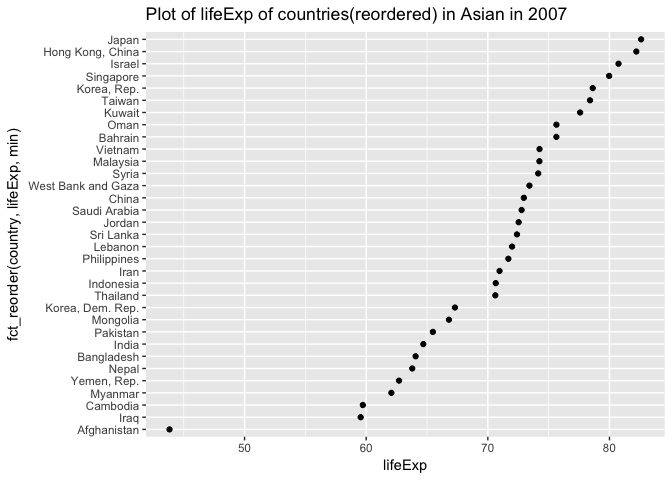
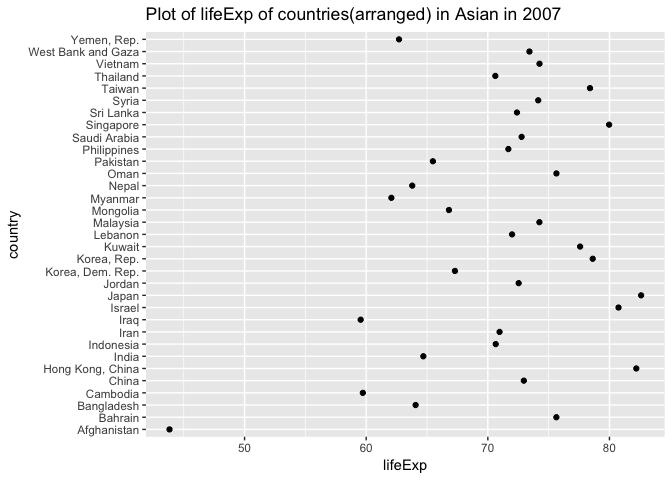
edit

diff --git a/hw05/hw05.md b/hw05/hw05.md
@@ -139,7 +139,7 @@ ggplot(gap_asia_2007, aes(x = lifeExp, y = country)) + geom_point() +
 
 ![](hw05_files/figure-markdown_github-ascii_identifiers/unnamed-chunk-6-1.png)
 
-Arrange the data based on life expectancy.
+**a.** Arrange the data based on life expectancy.
 
 ``` r
 gap_asia_2007%>%
@@ -837,18 +837,18 @@ Asia
 </tr>
 </tbody>
 </table>
-``` r
-# see if the arrange has effect on plots
+See if the arrange has effect on plots.
 
+``` r
 gap_asia_2007%>%
   arrange(lifeExp)%>%
     ggplot(aes(x = lifeExp, y = country)) + geom_point() +
         labs(title= "Plot of lifeExp of countries(arranged) in Asian in 2007") 
 ```
 
-![](hw05_files/figure-markdown_github-ascii_identifiers/unnamed-chunk-7-1.png)
+![](hw05_files/figure-markdown_github-ascii_identifiers/unnamed-chunk-8-1.png)
 
-Reorder the countries based on minimum of life expectancy.
+**b.** Reorder the countries based on minimum of life expectancy.
 
 ``` r
 gap_asia_2007%>%
@@ -1546,16 +1546,16 @@ Asia
 </tr>
 </tbody>
 </table>
-``` r
-# see if the reorder has effect on plots
+See if the reorder has effect on plots.
 
+``` r
 ggplot(gap_asia_2007, aes(x = lifeExp, y = fct_reorder(country, lifeExp, min))) +
   geom_point() + labs(title= "Plot of lifeExp of countries(reordered) in Asian in 2007") 
 ```
 
-![](hw05_files/figure-markdown_github-ascii_identifiers/unnamed-chunk-8-1.png)
+![](hw05_files/figure-markdown_github-ascii_identifiers/unnamed-chunk-10-1.png)
 
-First reorder the countries based on minimum of life expectancy, then arranged the data based on life expectancy.
+**c.** First reorder the countries based on minimum of life expectancy, then arranged the data based on life expectancy.
 
 ``` r
 gap_asia_2007%>%
@@ -2254,8 +2254,9 @@ Asia
 </tr>
 </tbody>
 </table>
+See if the reorder and arrange has effect on plots.
+
 ``` r
-# see if the reorder and arrange has effect on plots
 gap_asia_2007%>%
   mutate(country=fct_reorder(country, lifeExp, min))%>%
   arrange(lifeExp)%>%
@@ -2263,7 +2264,7 @@ gap_asia_2007%>%
         labs(title= "Plot of lifeExp of countries(reordered, arranged) in Asian in 2007") 
 ```
 
-![](hw05_files/figure-markdown_github-ascii_identifiers/unnamed-chunk-9-1.png)
+![](hw05_files/figure-markdown_github-ascii_identifiers/unnamed-chunk-12-1.png)
 
 **Note**:
 
@@ -2330,7 +2331,7 @@ p1<- ggplot(gapminder, aes(x = lifeExp, color = continent)) + geom_density()
 p1
 ```
 
-![](hw05_files/figure-markdown_github-ascii_identifiers/unnamed-chunk-12-1.png)
+![](hw05_files/figure-markdown_github-ascii_identifiers/unnamed-chunk-15-1.png)
 
 ``` r
 # Remake the plot with visualization design and color I learned in the recent class.
@@ -2346,7 +2347,7 @@ p2<- ggplot(gapminder, aes(x = lifeExp, color = continent)) + geom_density() +
 p2
 ```
 
-![](hw05_files/figure-markdown_github-ascii_identifiers/unnamed-chunk-12-2.png) I facetted the density plots wrt continents, I changed the color of the plots by changing the color scheme to "Dark2", I also added a title to my plot, and I changed the theme of the plot.
+![](hw05_files/figure-markdown_github-ascii_identifiers/unnamed-chunk-15-2.png) I facetted the density plots wrt continents, I changed the color of the plots by changing the color scheme to "Dark2", I also added a title to my plot, and I changed the theme of the plot.
 
 **(2)** Juxtapose (using the `multiplot()` function) the first attempt and what I obtained after some time spent working on it.
 
@@ -2403,7 +2404,7 @@ multiplot(p1, p2, cols = 1)
 
     ## Loading required package: grid
 
-![](hw05_files/figure-markdown_github-ascii_identifiers/unnamed-chunk-13-1.png)
+![](hw05_files/figure-markdown_github-ascii_identifiers/unnamed-chunk-16-1.png)
 
 Writing figures to file
 -----------------------
